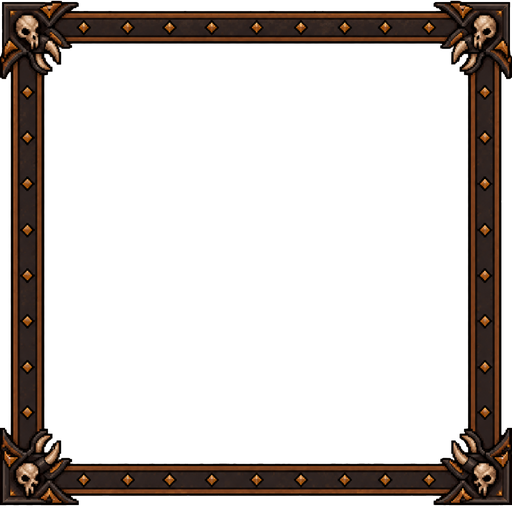
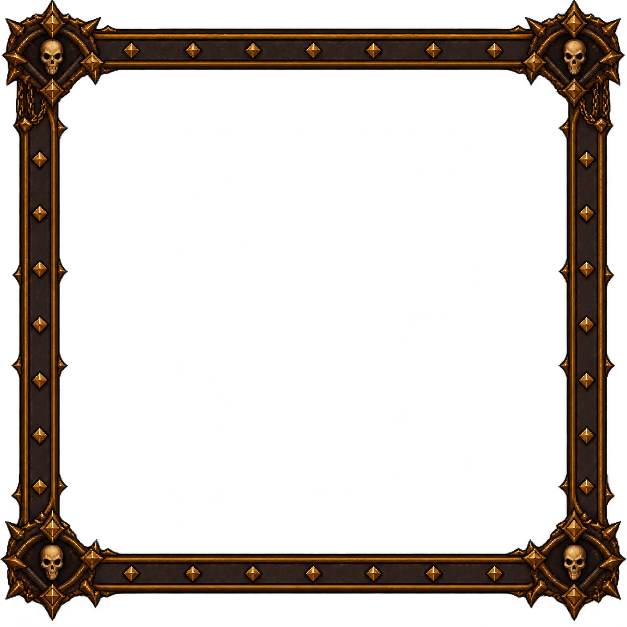
Versão 1.8.3: moldura nova dos cards no tema sombrio

Changed region(s): [[0.0, 0.0, 1.0, 1.0]]

diff --git a/src/styles.scss b/src/styles.scss
@@ -44,8 +44,11 @@
   --text-soft: #efeeeb; /* texto claro levemente creme */
   --sheet-label-color: #a32c17; /* rótulos em vermelho */
   --gold-color: #ccaa44; /* destaques em dourado */
-  /* Moldura dos cards de personagem (9-slice, 512 px; originais em design/frames/) */
+  /* Moldura dos cards de personagem (9-slice, 512 px; originais em design/frames/). Corte e
+     largura de desenho vêm junto porque cada imagem tem cantos de tamanho diferente. */
   --card-frame: url('/assets/frames/card-frame.png');
+  --card-frame-slice: 72;
+  --card-frame-width: 22px;
   /* Moldura dos avisos em tela cheia da sessão (rolagem, magia, monstro, nível) */
   --toast-frame: url('/assets/frames/toast-frame.png');
   /* Molduras do card na sessão (1.7.1): barra de XP, barra de vida e anel do avatar. Recortes de
@@ -114,7 +117,12 @@
   --text-soft: #dccfbb;
   --sheet-label-color: #c9734f;
   --gold-color: #c9a35c;
+  /* 627 px, original em docs/dungeon-companion/artes/card-frame-sombrio.png. Corte por lado
+     (cima, direita, baixo, esquerda): o canto de cima desce mais por causa da corrente. Desenhada a
+     ~0,245 da imagem, a faixa fica com ~10 px, como a do outro tema, e termina entre 14 e 18 px. */
   --card-frame: url('/assets/frames/card-frame-sombrio.png');
+  --card-frame-slice: 140 112 113 112;
+  --card-frame-width: 34px 27px 28px 27px;
   --toast-frame: url('/assets/frames/toast-frame-sombrio.png');
   --xp-frame: url('/assets/frames/xp-bar-sombrio.webp');
   --hp-frame: url('/assets/frames/hp-bar-sombrio.webp');
@@ -970,24 +978,26 @@ input[type="checkbox"].retro-checkbox {
   color: var(--accent-color);
 }
 
-/* ===== Moldura dos cards de personagem (1.3.11) =====
-   9-slice (border-image): os cantos (72 px da imagem de 512) ficam fixos e as bordas repetem os
-   rebites (round), então serve pra card de qualquer tamanho. A imagem vem do tema
-   (--card-frame). Destaque (vez do personagem, hover) é o brilho em box-shadow, porque a cor da
-   borda some debaixo da imagem. O componente não pode redefinir `border` do card. */
 /* Fundo padrão do card de personagem (parede de masmorra com tochas), o mesmo nos dois temas.
    Detalhes só nas beiradas: o centro é liso pro nome e as barras ficarem legíveis. */
 :root {
   --character-card-bg: url('/assets/frames/character-card-bg.webp');
 }
 
+/* ===== Moldura dos cards de personagem (1.3.11) =====
+   9-slice (border-image): os cantos ficam fixos e as bordas repetem os rebites (round), então
+   serve pra card de qualquer tamanho. Imagem, corte e largura vêm do tema (--card-frame,
+   --card-frame-slice, --card-frame-width). Destaque (vez do personagem, hover) é o brilho em
+   box-shadow, porque a cor da borda some debaixo da imagem. O componente não pode redefinir
+   `border` do card. */
 .framed-card {
-  /* A moldura é desenhada com 22 px (corte de 72 px da imagem, que cabe o enfeite do canto), mas a
-     faixa em si termina antes — em 38–44 dos 72 px, ou seja ~12–13 px na tela. A borda que ocupa
-     espaço tem só 11 px; o resto da imagem avança por cima do card (border-image-width maior que
-     border-width é permitido). Assim a faixa cobre a beirada do fundo e não sobra fresta. */
+  /* A moldura é desenhada maior que a borda (FANTASIA: 22 px, corte de 72 px da imagem, que cabe
+     o enfeite do canto), mas a faixa em si termina antes — ~12–13 px na tela (SOMBRIO: 14–18 px).
+     A borda que ocupa espaço tem só 11 px; o resto da imagem avança por cima do card
+     (border-image-width maior que border-width é permitido). Assim a faixa cobre a beirada do
+     fundo e não sobra fresta. */
   border: 11px solid transparent;
-  border-image: var(--card-frame) 72 / 22px round;
+  border-image: var(--card-frame) var(--card-frame-slice) / var(--card-frame-width) round;
   /* Fundo (cor e foto do personagem) só dentro da borda: por baixo dela a foto aparecia pelas
      frestas e o fim da imagem formava uma faixa clara na borda de baixo. */
   background-clip: padding-box;

diff --git a/src/app/release-notes/release-notes.ts b/src/app/release-notes/release-notes.ts
@@ -33,6 +33,17 @@ export interface Release {
 
 export const RELEASES: Release[] = [
   {
+    version: '1.8.3',
+    date: '2026-10-24',
+    title: 'Moldura nova no tema sombrio',
+    changes: [
+      {
+        kind: 'melhoria',
+        text: 'No tema SOMBRIO, os cards de personagem ganharam uma moldura nova, com caveiras e detalhes em dourado.',
+      },
+    ],
+  },
+  {
     version: '1.8.2',
     date: '2026-10-24',
     title: 'Sair leva pra tela de entrar',
